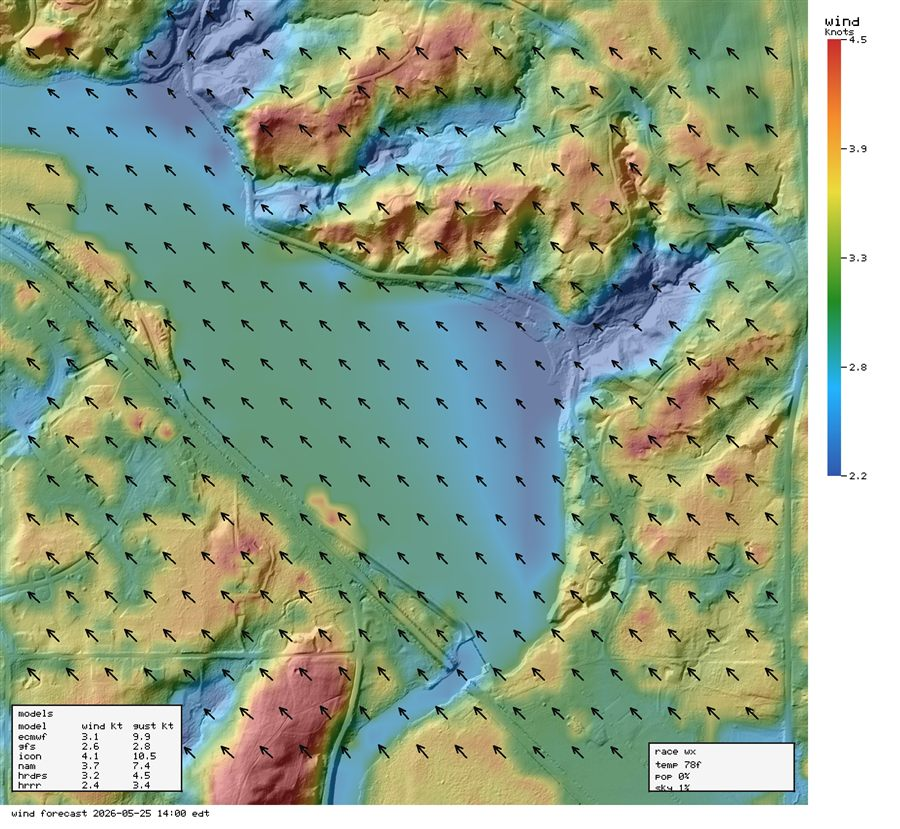
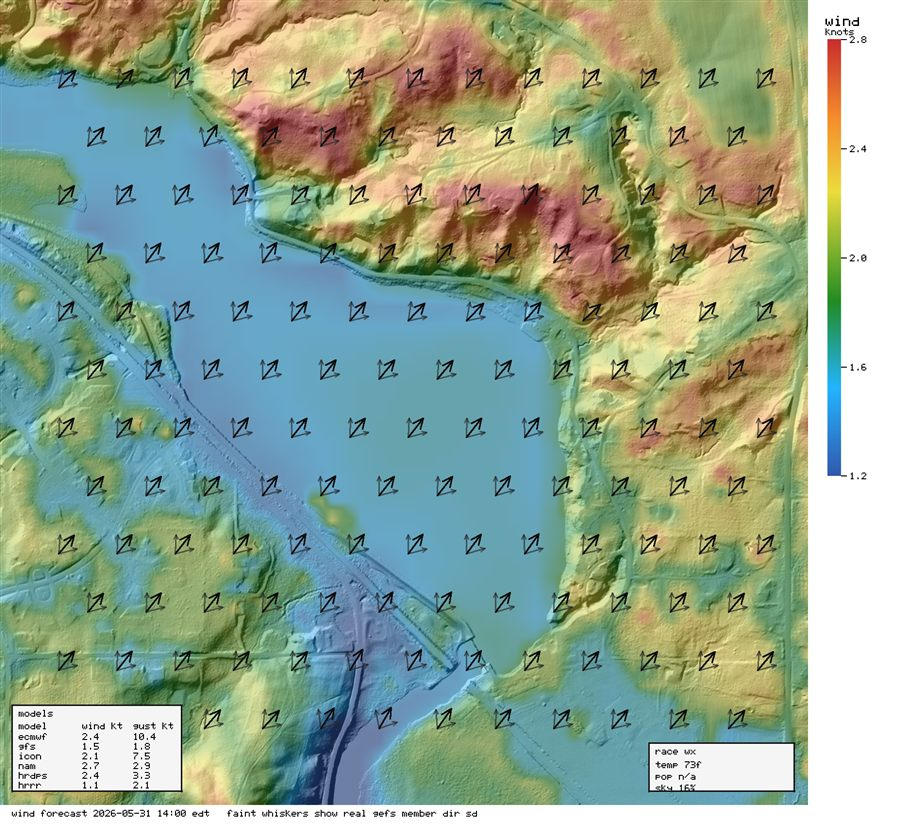
Publish latest PondWind report 2026-05-31 1400

diff --git a/index.html b/index.html
@@ -10,64 +10,64 @@
   <header class="site-header">
     <p class="eyebrow">PondWind</p>
     <h1>Latest Report</h1>
-    <p class="subtitle">Race time: 2026-05-25T14:00:00-04:00</p>
-    <p class="meta">Site: barton_pond &middot; Published: 2026-05-25T15:12:10.4097582Z</p>
+    <p class="subtitle">Race time: 2026-05-31T14:00:00-04:00</p>
+    <p class="meta">Site: barton_pond &middot; Published: 2026-05-31T14:50:04.3333646Z</p>
   </header>
   <main class="product-grid">
       <article class="product-card">
         <div class="product-meta">Wind</div>
         <h2>Wind Speed Prediction</h2>
-        <a href="latest/images/product_1_wind_speed_prediction_knots.png?v=2026-05-25T15%3A12%3A10.4097582Z"><img src="latest/images/product_1_wind_speed_prediction_knots.png?v=2026-05-25T15%3A12%3A10.4097582Z" alt="Wind Speed Prediction"></a>
+        <a href="latest/images/product_1_wind_speed_prediction_knots.png?v=2026-05-31T14%3A50%3A04.3333646Z"><img src="latest/images/product_1_wind_speed_prediction_knots.png?v=2026-05-31T14%3A50%3A04.3333646Z" alt="Wind Speed Prediction"></a>
       </article>
       <article class="product-card">
         <div class="product-meta">Wind</div>
-        <h2>Wind Speed Spread</h2>
-        <a href="latest/images/product_2_wind_speed_variance_knots.png?v=2026-05-25T15%3A12%3A10.4097582Z"><img src="latest/images/product_2_wind_speed_variance_knots.png?v=2026-05-25T15%3A12%3A10.4097582Z" alt="Wind Speed Spread"></a>
+        <h2>Wind Speed Ensemble SD</h2>
+        <a href="latest/images/product_2_wind_speed_variance_knots.png?v=2026-05-31T14%3A50%3A04.3333646Z"><img src="latest/images/product_2_wind_speed_variance_knots.png?v=2026-05-31T14%3A50%3A04.3333646Z" alt="Wind Speed Ensemble SD"></a>
       </article>
       <article class="product-card">
         <div class="product-meta">Wind</div>
-        <h2>Wind Direction Spread</h2>
-        <a href="latest/images/product_3_wind_direction_variance_degrees.png?v=2026-05-25T15%3A12%3A10.4097582Z"><img src="latest/images/product_3_wind_direction_variance_degrees.png?v=2026-05-25T15%3A12%3A10.4097582Z" alt="Wind Direction Spread"></a>
+        <h2>Wind Direction Ensemble SD</h2>
+        <a href="latest/images/product_3_wind_direction_variance_degrees.png?v=2026-05-31T14%3A50%3A04.3333646Z"><img src="latest/images/product_3_wind_direction_variance_degrees.png?v=2026-05-31T14%3A50%3A04.3333646Z" alt="Wind Direction Ensemble SD"></a>
       </article>
       <article class="product-card">
         <div class="product-meta">Experimental CFD</div>
-        <h2>Experimental CFD Comparison</h2>
-        <a href="latest/images/product_4_openfoam_experimental_cfd_knots.png?v=2026-05-25T15%3A12%3A10.4097582Z"><img src="latest/images/product_4_openfoam_experimental_cfd_knots.png?v=2026-05-25T15%3A12%3A10.4097582Z" alt="Experimental CFD Comparison"></a>
+        <h2>Experimental CFD/Adapter Comparison</h2>
+        <a href="latest/images/product_4_openfoam_experimental_cfd_knots.png?v=2026-05-31T14%3A50%3A04.3333646Z"><img src="latest/images/product_4_openfoam_experimental_cfd_knots.png?v=2026-05-31T14%3A50%3A04.3333646Z" alt="Experimental CFD/Adapter Comparison"></a>
       </article>
       <article class="product-card">
         <div class="product-meta">Experimental CFD</div>
         <h2>Experimental CFD Turbulence Intensity</h2>
-        <a href="latest/images/product_5_openfoam_turbulence_intensity_percent.png?v=2026-05-25T15%3A12%3A10.4097582Z"><img src="latest/images/product_5_openfoam_turbulence_intensity_percent.png?v=2026-05-25T15%3A12%3A10.4097582Z" alt="Experimental CFD Turbulence Intensity"></a>
+        <a href="latest/images/product_5_openfoam_turbulence_intensity_percent.png?v=2026-05-31T14%3A50%3A04.3333646Z"><img src="latest/images/product_5_openfoam_turbulence_intensity_percent.png?v=2026-05-31T14%3A50%3A04.3333646Z" alt="Experimental CFD Turbulence Intensity"></a>
       </article>
       <article class="product-card">
         <div class="product-meta">Sailing</div>
-        <h2>Sailing Polar Overlay</h2>
-        <a href="latest/images/product_6_sailing_polar_dem_overlay.png?v=2026-05-25T15%3A12%3A10.4097582Z"><img src="latest/images/product_6_sailing_polar_dem_overlay.png?v=2026-05-25T15%3A12%3A10.4097582Z" alt="Sailing Polar Overlay"></a>
+        <h2>Experimental ILCA Relative Polar</h2>
+        <a href="latest/images/product_6_sailing_polar_dem_overlay.png?v=2026-05-31T14%3A50%3A04.3333646Z"><img src="latest/images/product_6_sailing_polar_dem_overlay.png?v=2026-05-31T14%3A50%3A04.3333646Z" alt="Experimental ILCA Relative Polar"></a>
       </article>
       <article class="product-card">
         <div class="product-meta">Sailing</div>
-        <h2>Experimental CFD Sailing Polar Overlay</h2>
-        <a href="latest/images/product_7_openfoam_sailing_polar_dem_overlay.png?v=2026-05-25T15%3A12%3A10.4097582Z"><img src="latest/images/product_7_openfoam_sailing_polar_dem_overlay.png?v=2026-05-25T15%3A12%3A10.4097582Z" alt="Experimental CFD Sailing Polar Overlay"></a>
+        <h2>Experimental CFD Relative Polar</h2>
+        <a href="latest/images/product_7_openfoam_sailing_polar_dem_overlay.png?v=2026-05-31T14%3A50%3A04.3333646Z"><img src="latest/images/product_7_openfoam_sailing_polar_dem_overlay.png?v=2026-05-31T14%3A50%3A04.3333646Z" alt="Experimental CFD Relative Polar"></a>
       </article>
       <article class="product-card">
         <div class="product-meta">Satellite</div>
         <h2>Latest RGB Satellite</h2>
-        <a href="latest/images/satellite_rgb_latest.png?v=2026-05-25T15%3A12%3A10.4097582Z"><img src="latest/images/satellite_rgb_latest.png?v=2026-05-25T15%3A12%3A10.4097582Z" alt="Latest RGB Satellite"></a>
+        <a href="latest/images/satellite_rgb_latest.png?v=2026-05-31T14%3A50%3A04.3333646Z"><img src="latest/images/satellite_rgb_latest.png?v=2026-05-31T14%3A50%3A04.3333646Z" alt="Latest RGB Satellite"></a>
       </article>
       <article class="product-card">
         <div class="product-meta">Satellite</div>
-        <h2>Surface Temperature</h2>
-        <a href="latest/images/satellite_sst_latest.png?v=2026-05-25T15%3A12%3A10.4097582Z"><img src="latest/images/satellite_sst_latest.png?v=2026-05-25T15%3A12%3A10.4097582Z" alt="Surface Temperature"></a>
+        <h2>Surface Temperature Over Water</h2>
+        <a href="latest/images/satellite_sst_latest.png?v=2026-05-31T14%3A50%3A04.3333646Z"><img src="latest/images/satellite_sst_latest.png?v=2026-05-31T14%3A50%3A04.3333646Z" alt="Surface Temperature Over Water"></a>
       </article>
       <article class="product-card">
         <div class="product-meta">Satellite</div>
-        <h2>Estimated Chlorophyll-a</h2>
-        <a href="latest/images/satellite_chla_estimated.png?v=2026-05-25T15%3A12%3A10.4097582Z"><img src="latest/images/satellite_chla_estimated.png?v=2026-05-25T15%3A12%3A10.4097582Z" alt="Estimated Chlorophyll-a"></a>
+        <h2>Experimental Chlorophyll-a Index</h2>
+        <a href="latest/images/satellite_chla_estimated.png?v=2026-05-31T14%3A50%3A04.3333646Z"><img src="latest/images/satellite_chla_estimated.png?v=2026-05-31T14%3A50%3A04.3333646Z" alt="Experimental Chlorophyll-a Index"></a>
       </article>
       <article class="product-card">
         <div class="product-meta">Satellite</div>
-        <h2>Estimated Turbidity</h2>
-        <a href="latest/images/satellite_turbidity_estimated.png?v=2026-05-25T15%3A12%3A10.4097582Z"><img src="latest/images/satellite_turbidity_estimated.png?v=2026-05-25T15%3A12%3A10.4097582Z" alt="Estimated Turbidity"></a>
+        <h2>Experimental Turbidity Index</h2>
+        <a href="latest/images/satellite_turbidity_estimated.png?v=2026-05-31T14%3A50%3A04.3333646Z"><img src="latest/images/satellite_turbidity_estimated.png?v=2026-05-31T14%3A50%3A04.3333646Z" alt="Experimental Turbidity Index"></a>
       </article>
   </main>
   <footer class="site-footer">
